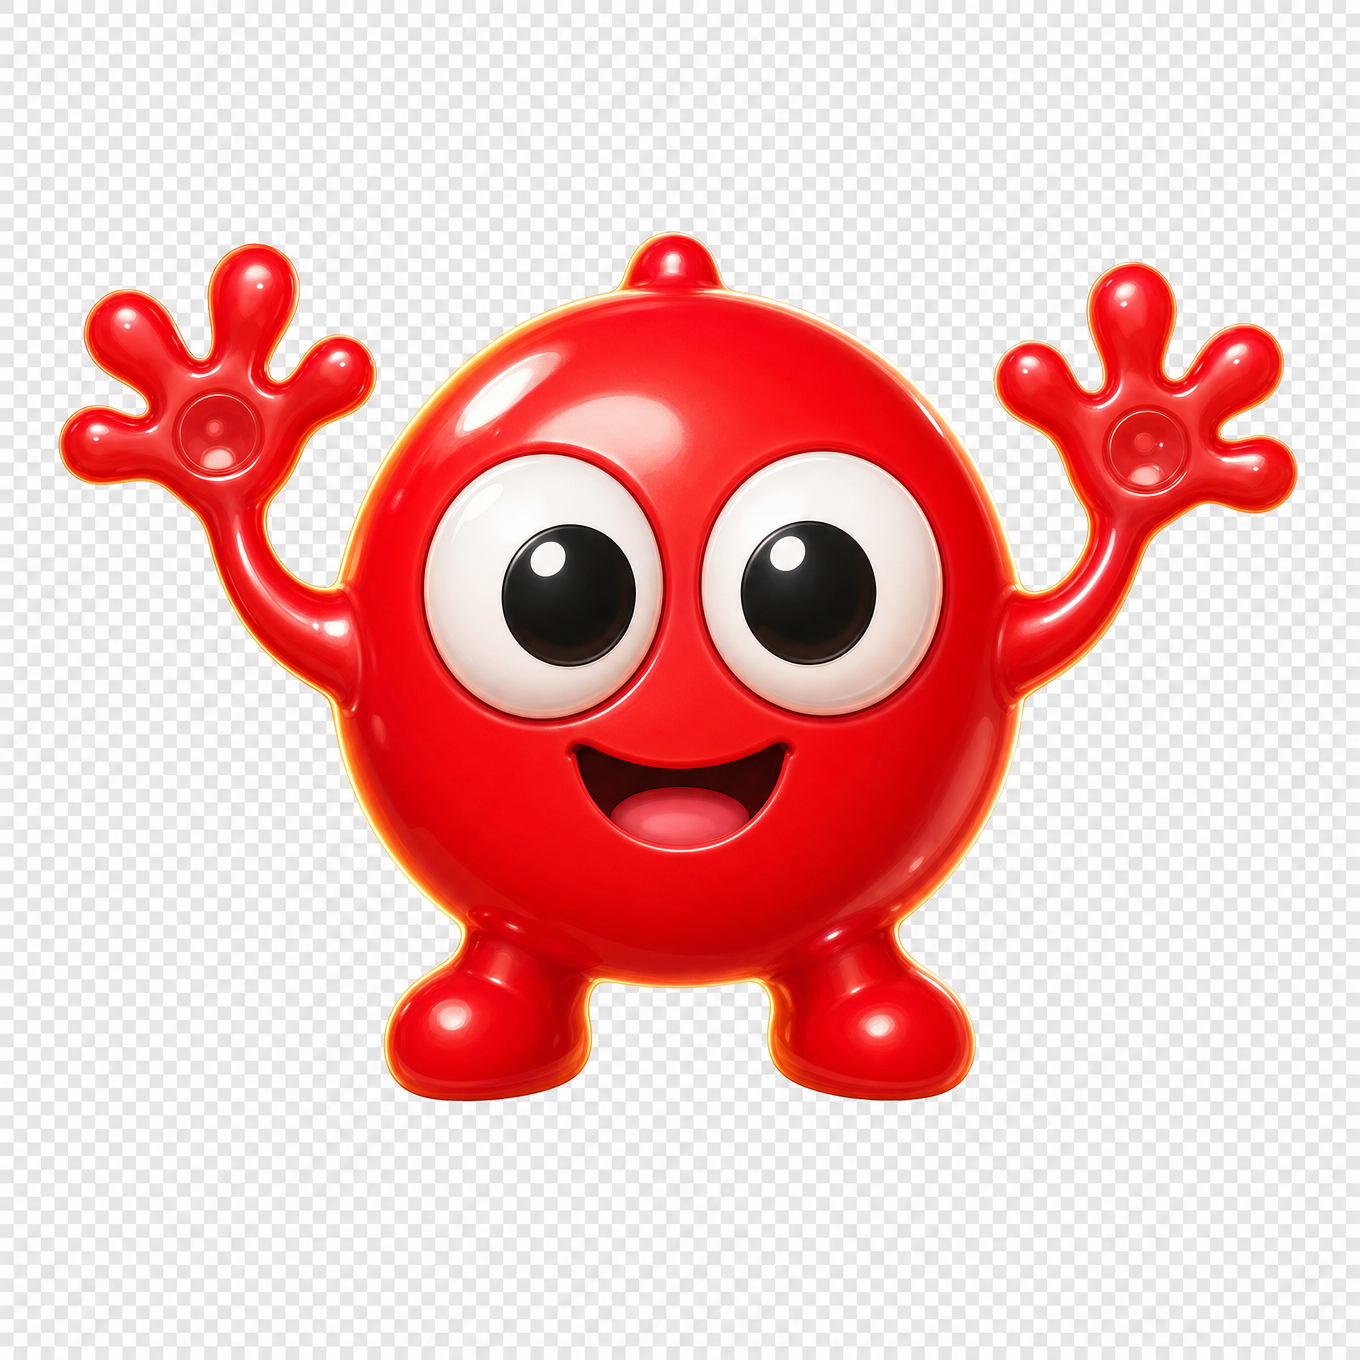
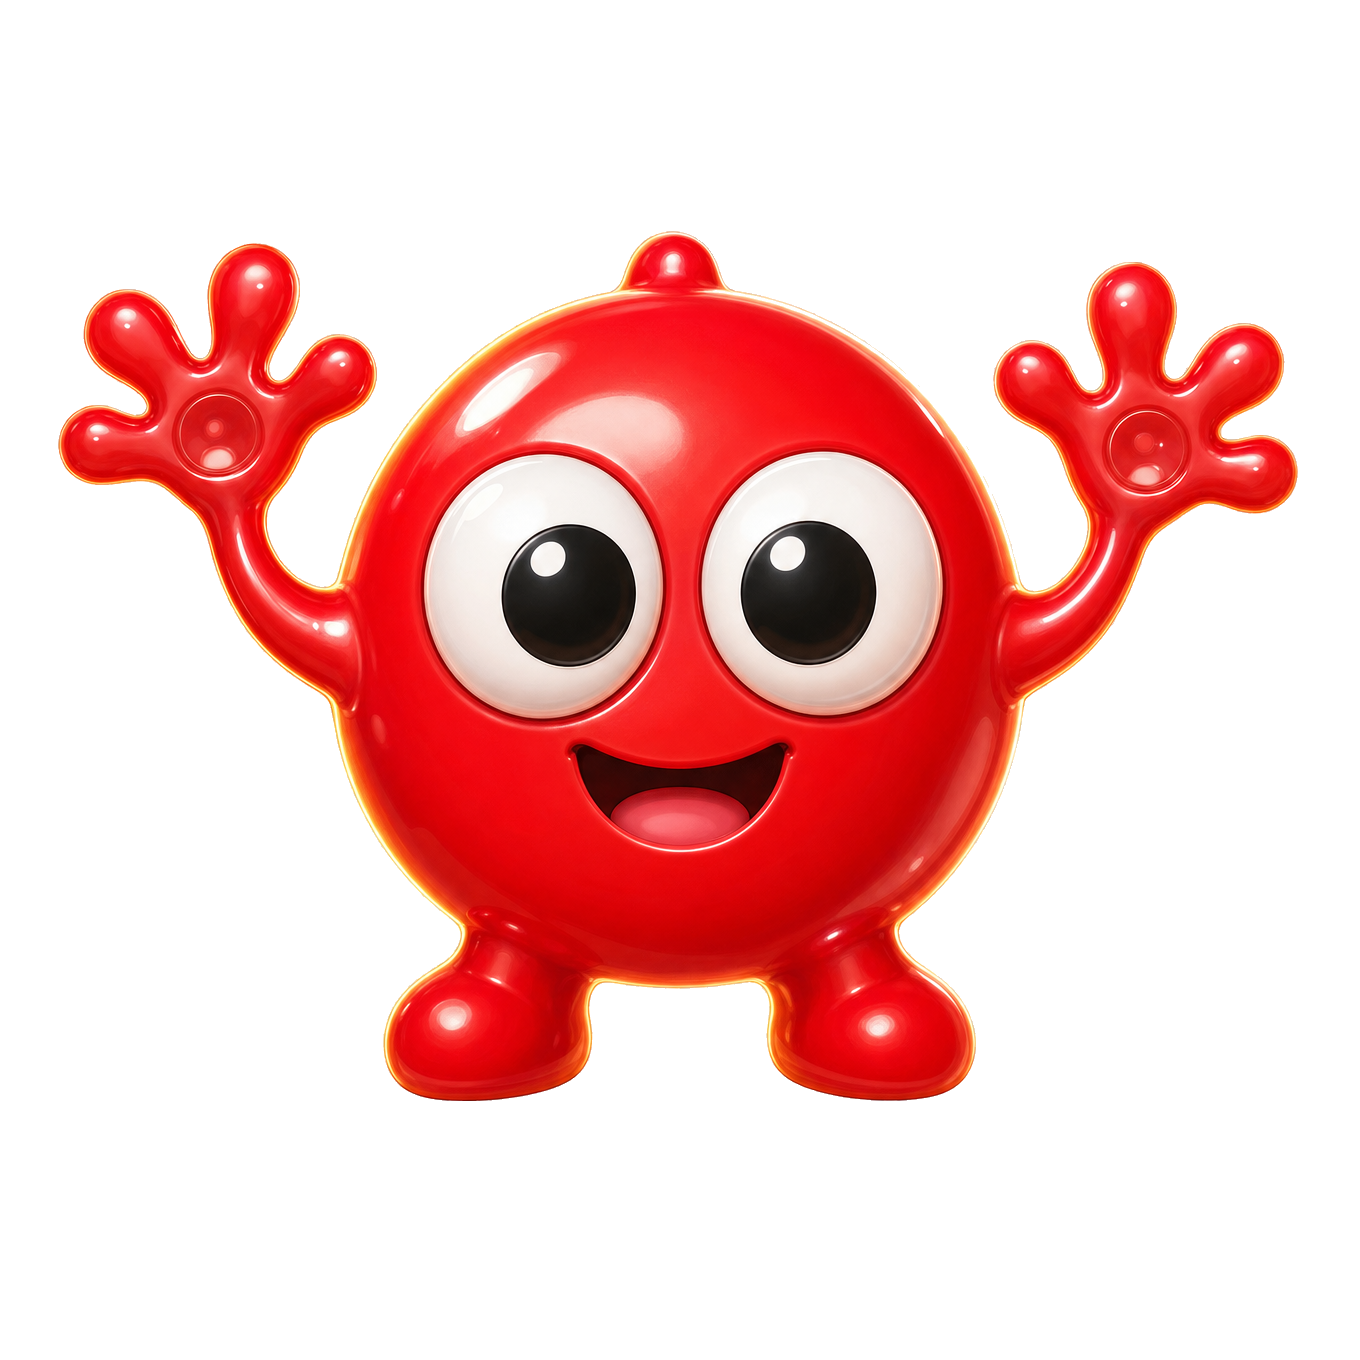
ASANO edition: AAA character set (hero + Gerald + Moose), OpenArt, transparency-fixed
Three OpenArt (GPT Image 2) painted characters, coherent glossy style:
- hero (sticky-hand toy, googly eyes, grabbers up)
- gerald (chrome 3-prong claw, glowing cyan eye, cable) -> wired into drawClaw
  (blits the sprite with a subtle grab-squash; procedural claw is fallback)
- moose (worn plush, ONE eye + the other stitched shut, 'Moose' belly patch) ->
  loaded, ready for the cold-open + summit reunion

TRANSPARENCY FIX: GPT Image 2 baked a checkerboard as OPAQUE pixels instead of
real alpha (Gerald showed a white box in-game). Fixed with an edge flood-fill
background remover (browser: remove connected light-grey/near-white pixels from
the image edges; saturated character colours + Gerald's cyan rim stop the flood,
so interiors and light character parts survive). Re-saved all three as true
transparent PNGs. Reusable for any future baked-checkerboard asset.

Verified in-game: hero + Gerald render clean (no box), transparent, integrated.

Changed region(s): [[0.0, 0.0, 1.0, 1.0], [0.1853, 0.2471, 0.2162, 0.2779]]

diff --git a/asano.html b/asano.html
@@ -1083,6 +1083,16 @@ function drawClaw(){
   const open = clawT > (CLAW_PERIOD-CLAW_OPEN);
   const X=sx(CLAW.x), Y=sy(CLAW.y), w=CLAW.w*S;
   if(Y<-140||Y>Hc+40) return;
+  // painted GERALD (OpenArt) if loaded — cable + housing + claws baked in; subtle grab-squash on close
+  const gart=ASANO_ART.claw;
+  if(gart && gart.complete && gart.naturalWidth){
+    asanoBloom(X,Y,w*1.1,'#9fd0ff',0.16);
+    const gw=w*2.0, gh=gw*(gart.naturalHeight/gart.naturalWidth), sq=open?1:0.94;
+    ctx.save(); ctx.translate(X,Y); ctx.scale(sq,1/sq);
+    // anchor so the claw's business-end sits at Y, housing + cable rise above
+    ctx.drawImage(gart, -gw/2, -gh*0.58, gw, gh);
+    ctx.restore(); return;
+  }
   const steel1='#e6ebf5', steel2='#7a8194', steel3='#3a3f4e';
   ctx.save(); ctx.lineCap='round'; ctx.lineJoin='round';
   // the cold cathedral bloom this thing lives inside
@@ -1418,7 +1428,7 @@ function asanoBloom(x,y,r,col,a){
    dropped into ASANO_ART[key] overrides the pixel-art in the SAME slot — no other change. */
 const ASANO_ART = {};                 // key -> HTMLImageElement (painted art overrides procedural art when present)
 // load authored art assets (OpenArt / Makko). each drops into its slot when ready; game runs before they load.
-(function(){ const A={ hand:'assets/hero.png' };
+(function(){ const A={ hand:'assets/hero.png', claw:'assets/gerald.png', moose:'assets/moose.png' };
   for(const k in A){ const im=new Image(); im.src=A[k]; ASANO_ART[k]=im; } })();
 const SPRITE_DEFS = {
   // the sticky hand: a soft googly blob. '.'=clear o=outline s=shadow m=mid h=highlight.
